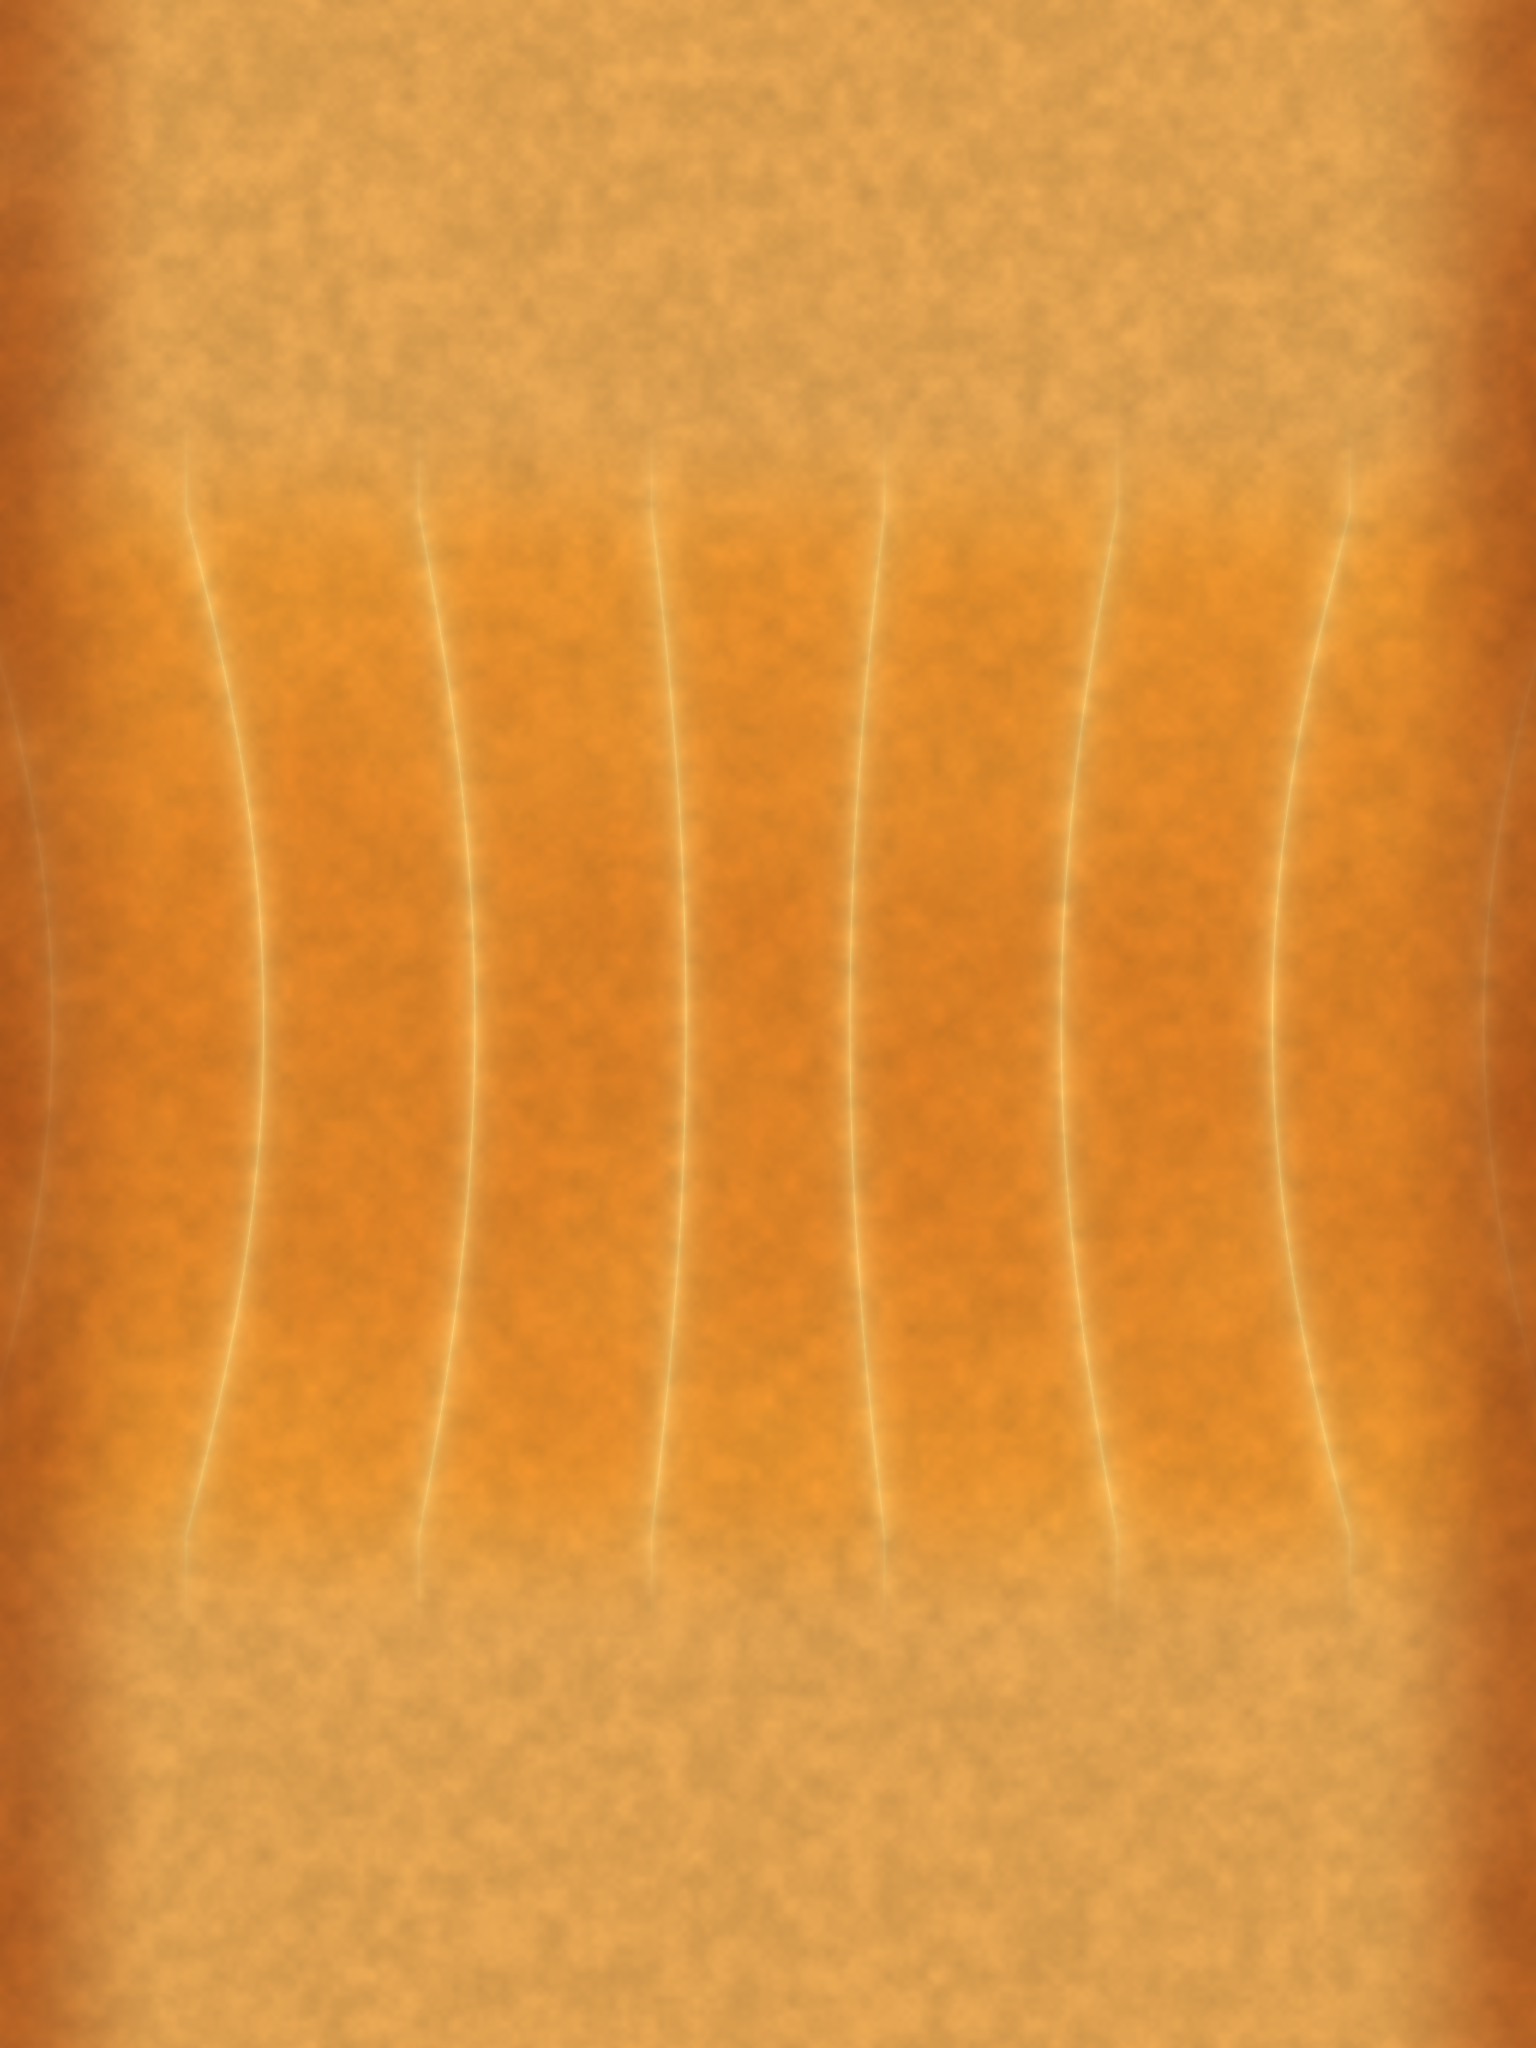
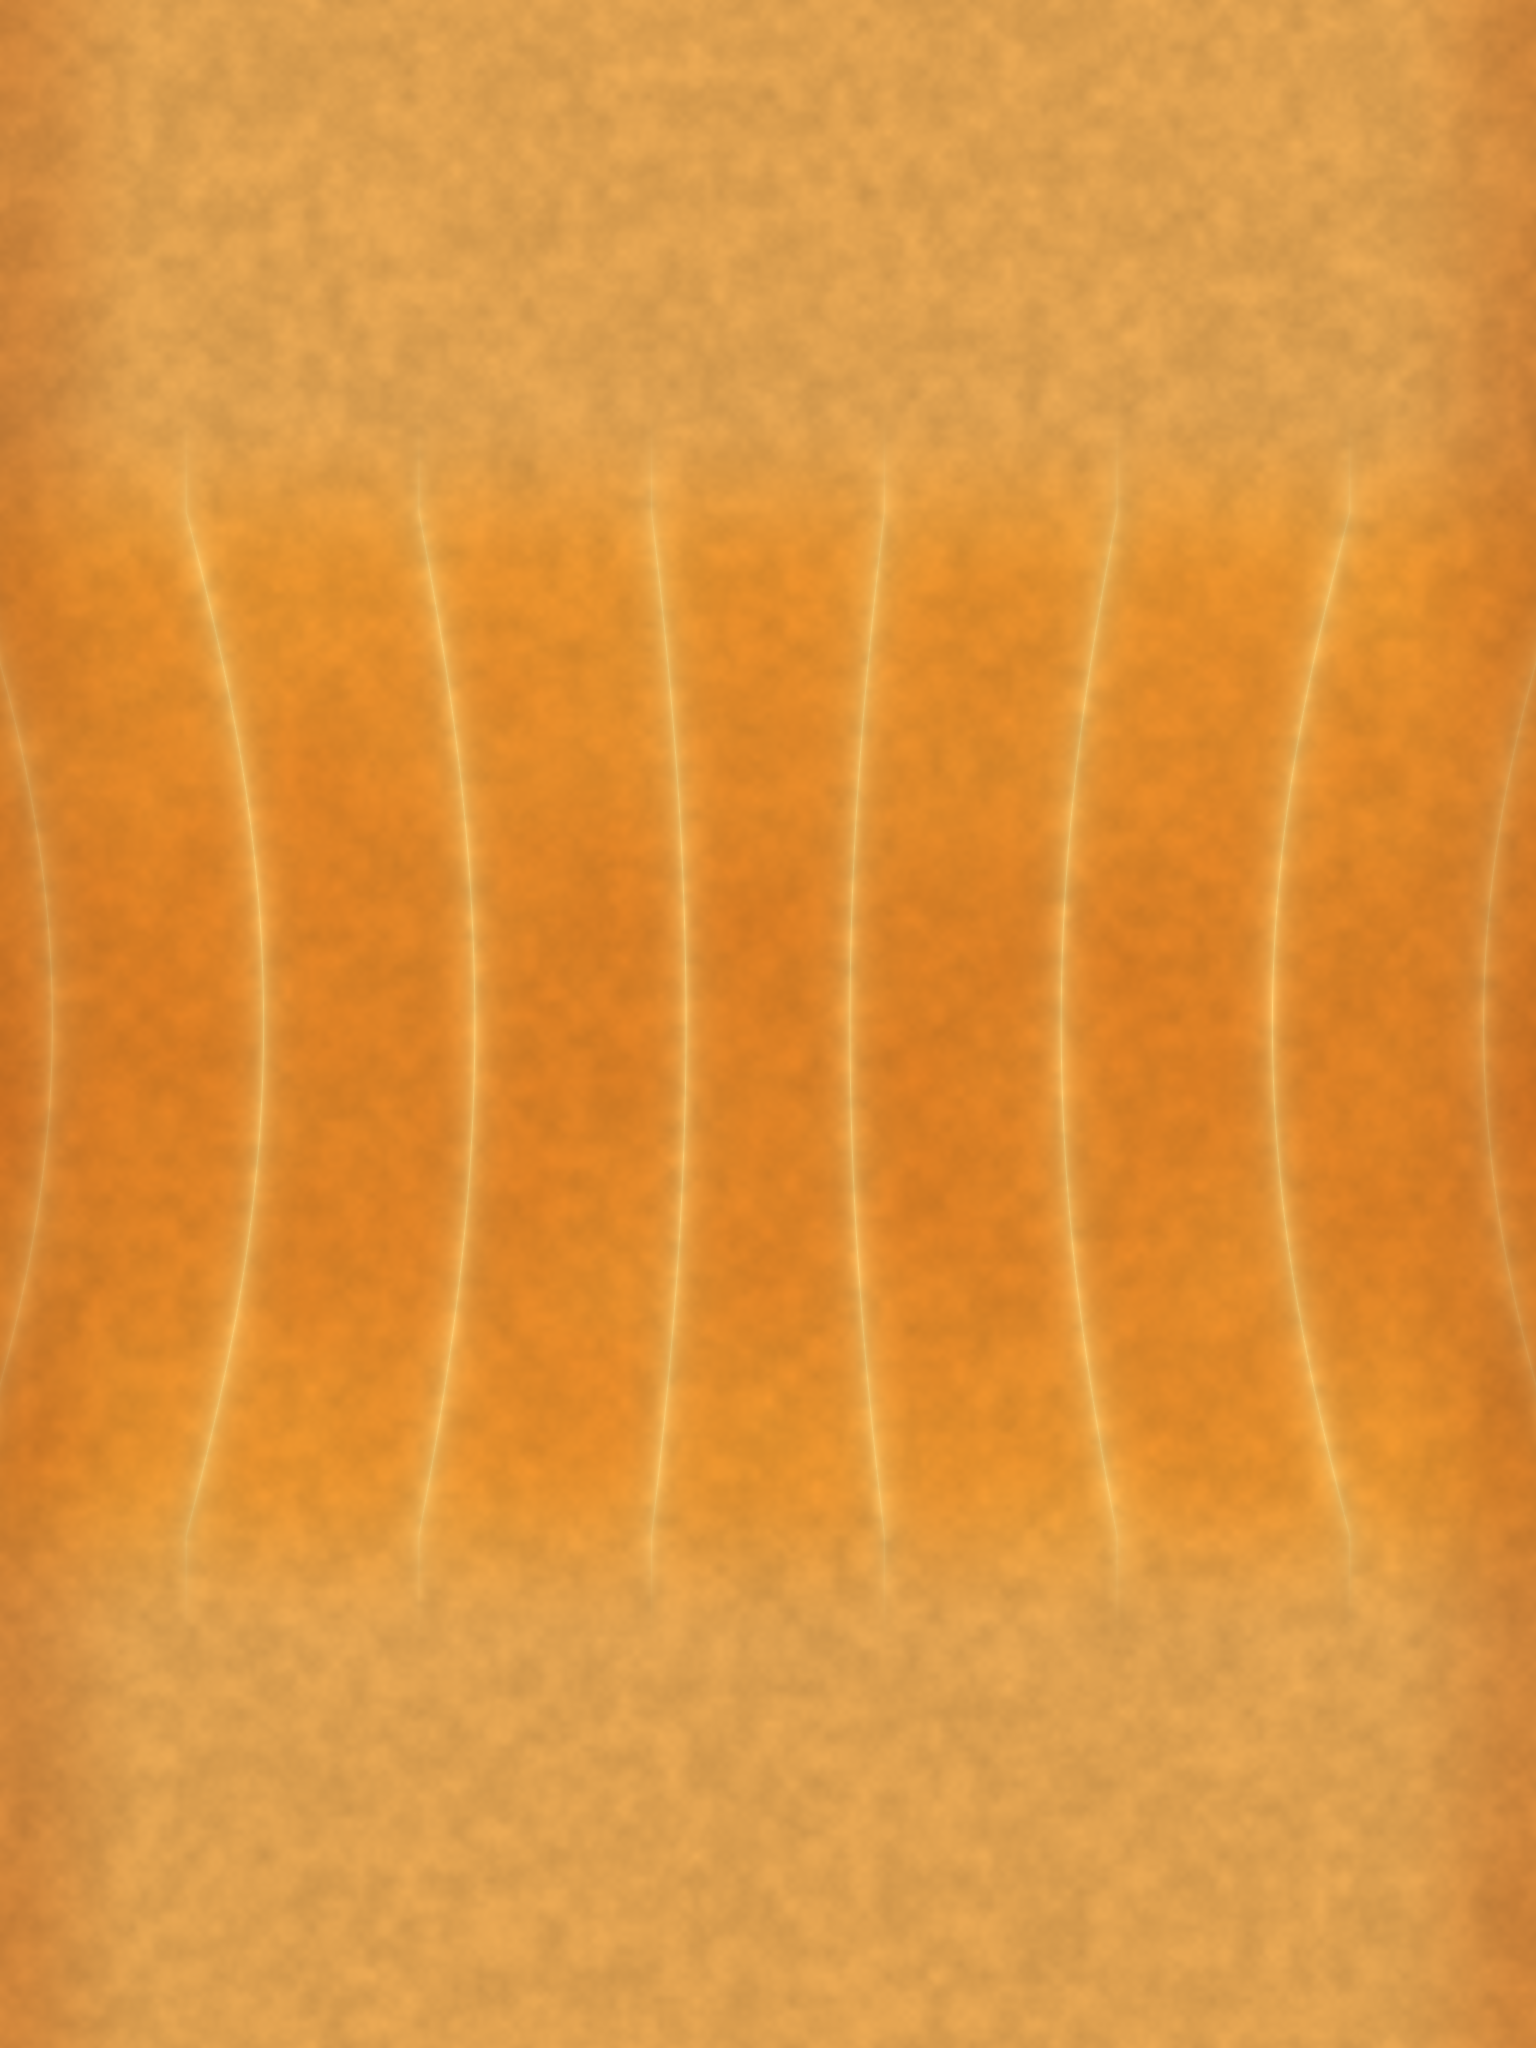
simulation: autotune soft_v4 + held-out validation (28% -> 58% per arm on soft bread)
- scripts/autotune_validate.py: re-run the top candidates and production on the same 32
  held-out scenes; final.json is what build_web --params uses.
- Tuned: driver goal time 1.2 -> 0.49 s, EMA 0.5 -> 0.29, tool point 0.9 cm deeper; physics
  stays in real-crumb ranges (E 17 kPa, mu 0.92, 12.7 N).
- softer croissant tips in the texture.

Changed region(s): [[0.9375, 0.0, 1.0, 1.0], [0.0, 0.0, 0.0625, 1.0]]

diff --git a/simulation/scripts/autotune_validate.py b/simulation/scripts/autotune_validate.py
@@ -1,0 +1,72 @@
+# -*- coding: utf-8 -*-
+"""
+Re-evaluate the best candidates of an autotune run on the SAME fresh scenes (common random
+numbers), together with the production settings, and write the winner to final.json.
+
+Batch scores are noisy (each batch draws new scenes, 14 scenes x 2 arms); this picks the
+parameters that hold up on a larger held-out set.
+
+    python simulation/scripts/autotune_validate.py --name soft_v4 --top 3 --n 32 --workers 20
+"""
+import argparse
+import glob
+import json
+import os
+import sys
+
+HERE = os.path.dirname(os.path.abspath(__file__))
+SIM = os.path.dirname(HERE)
+sys.path.insert(0, SIM)
+
+import numpy as np  # noqa: E402
+
+from autotune.params import params_to_overrides  # noqa: E402
+from humanego_sim.env import load_config  # noqa: E402
+from humanego_sim.evaluate import evaluate  # noqa: E402
+from humanego_sim.sampling import sample_scene  # noqa: E402
+
+
+def candidates(run_dir, top, min_iter):
+    rows = []
+    for p in sorted(glob.glob(os.path.join(run_dir, "iterations", "iter_*.json"))):
+        it = json.load(open(p))
+        if it["iteration"] < min_iter:
+            continue
+        for c in it["candidates"]:
+            rows.append((c["stats"]["score"], c["params"], it["iteration"]))
+    rows.sort(key=lambda r: -r[0])
+    return rows[:top]
+
+
+if __name__ == "__main__":
+    ap = argparse.ArgumentParser()
+    ap.add_argument("--name", required=True)
+    ap.add_argument("--top", type=int, default=3)
+    ap.add_argument("--min_iter", type=int, default=0)
+    ap.add_argument("--n", type=int, default=32)
+    ap.add_argument("--workers", type=int, default=16)
+    ap.add_argument("--seed", type=int, default=7777)
+    ap.add_argument("--mode", default="bimanual")
+    args = ap.parse_args()
+    run_dir = os.path.join(SIM, "autotune_runs", args.name)
+    base = load_config()
+    rng = np.random.default_rng(args.seed)
+    scenes = [sample_scene(rng, args.mode) for _ in range(args.n)]
+    trials = [("production", {}, None)] + [(f"batch{it}_{s:.3f}", p, s) for s, p, it in
+                                          candidates(run_dir, args.top, args.min_iter)]
+    results = []
+    for name, params, batch_score in trials:
+        ov = params_to_overrides(params, base) if params else {}
+        ov = {**ov, "mode": args.mode}
+        st = evaluate(ov, scenes=scenes, workers=args.workers, seed=args.seed)
+        st.pop("results", None)
+        print(f"[validate] {name:22s} per-arm {st['per_side_success_rate']:.3f}  sides {st['side_success']}  "
+              f"modes {st['failure_modes']}", flush=True)
+        results.append({"name": name, "params": params, "batch_score": batch_score, "validation": st})
+    best = max(results[1:], key=lambda r: r["validation"]["per_side_success_rate"])
+    out = {"params": best["params"], "stats": best["validation"], "validation": best["validation"],
+           "chosen": best["name"], "trials": results, "n_scenes": args.n, "seed": args.seed}
+    with open(os.path.join(run_dir, "final.json"), "w") as f:
+        json.dump(out, f, indent=1)
+    print(f"[validate] chosen {best['name']}: {best['validation']['per_side_success_rate']:.3f} per arm "
+          f"(production {results[0]['validation']['per_side_success_rate']:.3f}) -> {run_dir}/final.json")

diff --git a/simulation/scripts/bread_gen.py b/simulation/scripts/bread_gen.py
@@ -247,13 +247,13 @@ def _croissant() -> BreadSpec:
         crest_hi = _srgb((236, 156, 52))
         groove_c = _srgb((246, 206, 120))
         under_c = _srgb((222, 160, 80))
-        tip_c = _srgb((168, 82, 26))
+        tip_c = _srgb((186, 98, 32))
         t = np.clip(0.55 * top + 0.45 * n1 + 0.15 * (n2 - 0.5), 0, 1)
         col = crest_hi[None, None] * (1 - t[..., None]) + crest_c[None, None] * t[..., None]
         col = col * (1 - g[..., None] * 0.9) + groove_c[None, None] * g[..., None] * 0.9
         under = _smoothstep(0.25, -0.35, -np.cos(TH))       # bottom of the bread
         col = col * (1 - under[..., None]) + under_c[None, None] * under[..., None]
-        tipw = _smoothstep(0.78, 1.0, d) * (0.6 + 0.4 * n1)
+        tipw = 0.55 * _smoothstep(0.80, 1.0, d) * (0.6 + 0.4 * n1)
         col = col * (1 - tipw[..., None]) + tip_c[None, None] * tipw[..., None]
         col *= (0.92 + 0.16 * n2)[..., None]
         rough = 0.32 + 0.25 * g + 0.15 * n2 + 0.2 * under

diff --git a/simulation/scripts/build_web.py b/simulation/scripts/build_web.py
@@ -119,8 +119,12 @@ def tuning_summary(name):
         it = json.load(open(p))
         batches.append({"scores": [round(c["stats"]["per_side_success_rate"], 3) for c in it["candidates"]],
                         "action": it.get("decision", {}).get("action")})
-    best = json.load(open(os.path.join(SIM, "autotune_runs", name, "best.json"))) if os.path.exists(
-        os.path.join(SIM, "autotune_runs", name, "best.json")) else None
+    best = None
+    for fn in ("final.json", "best.json"):          # final.json: winner re-validated on held-out scenes
+        fp = os.path.join(SIM, "autotune_runs", name, fn)
+        if os.path.exists(fp):
+            best = json.load(open(fp))
+            break
     note = ""
     if best:
         v = best.get("validation", {})

diff --git a/simulation/README.md b/simulation/README.md
@@ -156,12 +156,35 @@ Searched parameters (`autotune/params.py`): the controller knobs of
 `cfg/inference/serve_bread/Control.yaml` (EMA, look-ahead, stride, goal-time factor,
 safety cage, grasp threshold and look-ahead window, idle-done release, forced lift),
 the TCP offset, and the bread physics within the range of real crumb (Young's modulus,
-damping, crust friction, gripper force cap). Findings from the loop so far:
+damping, crust friction, gripper force cap). Then
 
-* the production grasp timing (`any` over the whole chunk) is near-optimal — closing later
-  (`grasp_k_any = 15`) misses more grasps;
-* most failures were mislabelled "release" errors: 22 of 25 failed arms never lifted the
-  bread, so the search targets grasping, not placing.
+```bash
+python simulation/scripts/autotune_validate.py --name my_rig --top 4 --min_iter 5 --n 32
+```
+
+re-evaluates the best candidates and the production settings on the same held-out scenes
+and writes `final.json` (what `build_web.py --params` uses).
+
+**Run `soft_v4` (soft bread, two arms, 10 batches × 8 candidates × 14 scenes):**
+
+| | per-arm success, 32 held-out scenes | right (croissant) | left (danish) |
+|---|---|---|---|
+| production `Control.yaml` | 28 % | 28 % | 28 % |
+| tuned | **58 %** | **84 %** | 31 % |
+
+The tuned controller changes three things, all pointing at the grasp-height mechanism above:
+the driver goal time drops from 1.2 s to 0.49 s (`duration_smooth_param` 12 → 4.9) and the
+position EMA from 0.5 to 0.29, so the arm follows the descending plan instead of trailing it,
+and the tool point moves 0.9 cm deeper along the (downward-pitched) approach
+(`tcp_offset` −0.009). Everything else stays near production (look-ahead 46, grasp
+threshold 0.58, `any` closing). The bread physics stays inside real-crumb ranges
+(E = 17 kPa, μ = 0.92, 12.7 N). The left arm stays weak: the danish is 7.4 cm wide against
+an 8.8 cm maximum gripper opening, and the left arm starts from the real rig's asymmetric
+pose and sees a mirrored image. The agent's decisions (`inbox/response_*.json`) record the
+reasoning between batches.
+
+Earlier findings on the rigid-bread proxy: the production grasp timing (`any` over the whole
+chunk) is near-optimal there, and most failures were grasps, not placing.
 
 ## Web viewer (`web/`)
 
